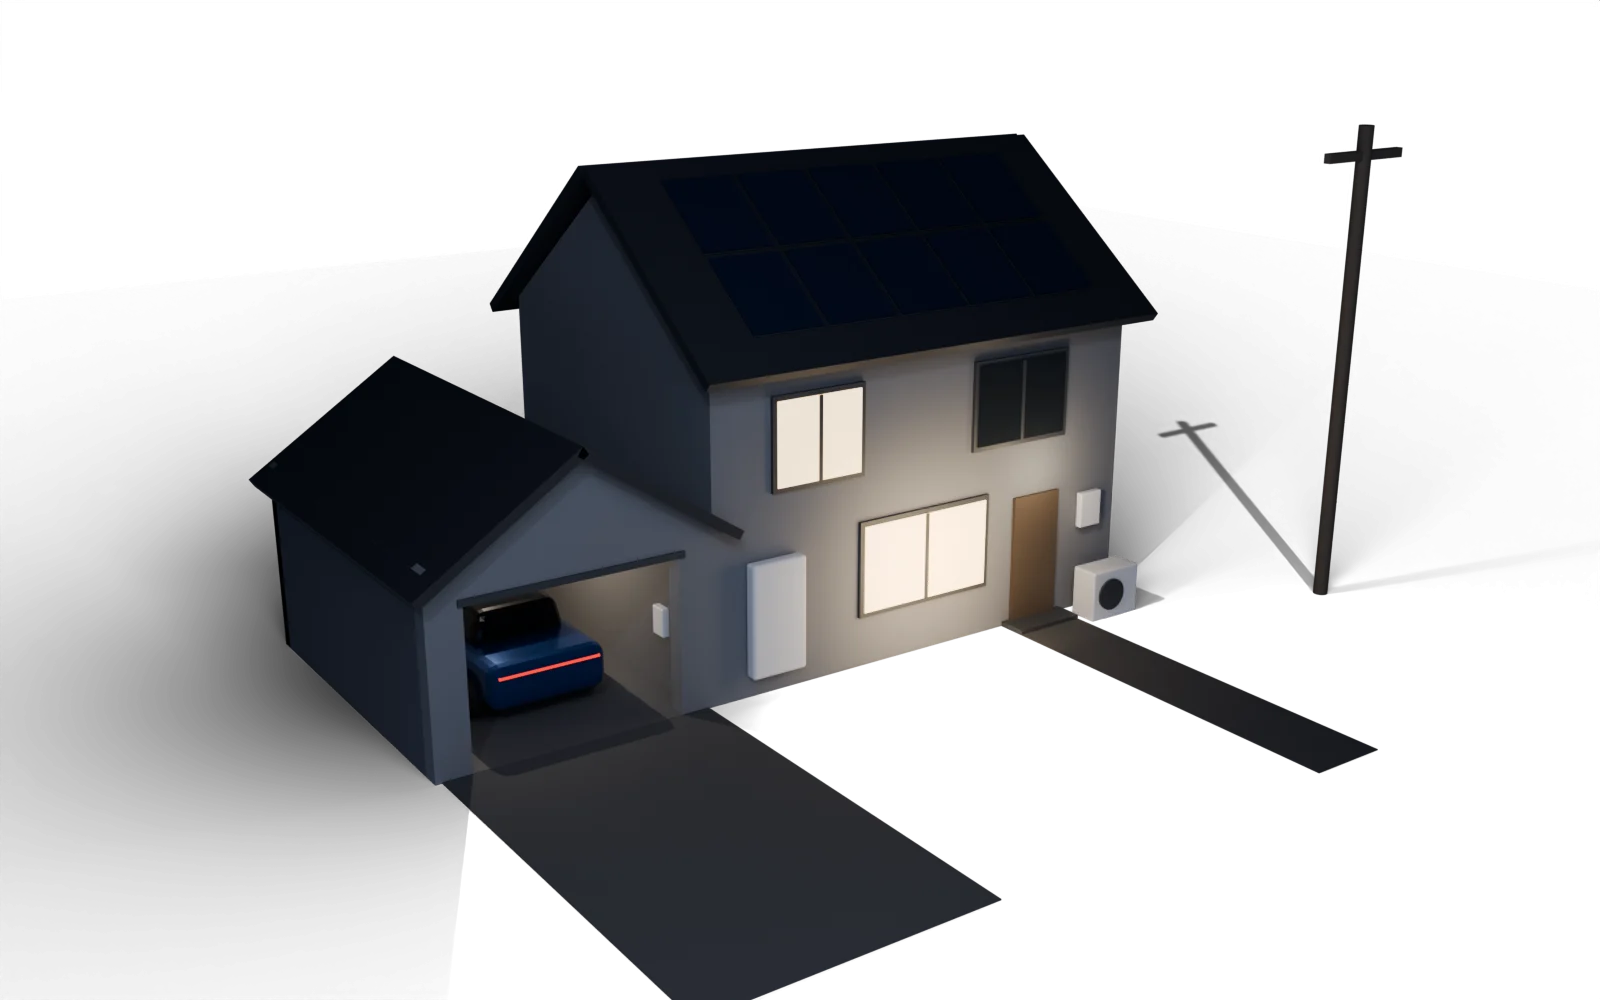
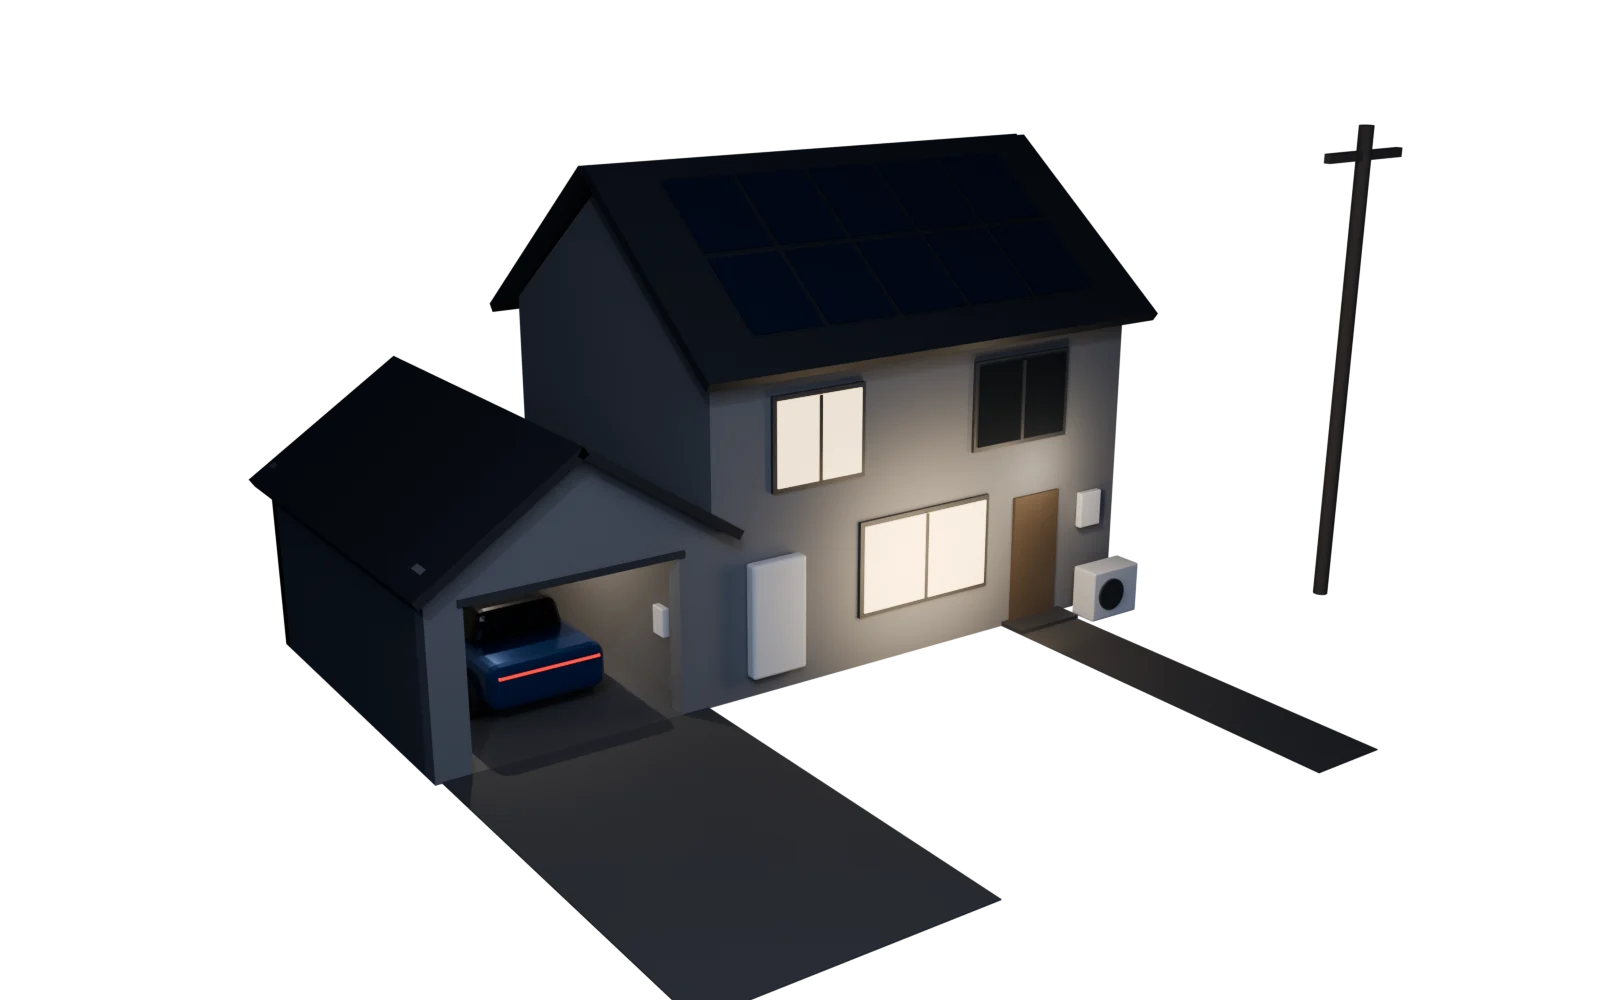
v3.84.1: house view labels beside their things, colour-coded, cropped and faded

diff --git a/gridlock_addon/rootfs/opt/gridlock-web/webui.py b/gridlock_addon/rootfs/opt/gridlock-web/webui.py
@@ -2195,7 +2195,7 @@ function renderFlow(f, bypassActive, house) {
   // breathes while it carries power, and a soft glowing pulse glides along
   // it the way the power goes, quicker the more power. Figures along the
   // top with thin leader lines down to their thing.
-  const IW = house.width, IH = house.height, TOPBAND = 120, VW = IW, VH = IH + TOPBAND;
+  const IW = house.width, IH = house.height, TOPBAND = 0, VW = IW, VH = IH + TOPBAND;
   const at = ([x, y]) => [x, y + TOPBAND];
   const num = (v) => Math.abs(Number(v) || 0);
   const kw = (v) => `${num(v).toFixed(1)} kW`;
@@ -2210,7 +2210,7 @@ function renderFlow(f, bypassActive, house) {
   };
   const col = {
     solar: '#f5b942', grid: bypassActive ? '#fb923c' : (f.exporting ? '#5ec8e5' : '#e8a33d'),
-    home: '#eef2f8', car: '#4ade80', heatpump: '#f87171', battery: '#4ade80',
+    home: '#c4b5fd', car: '#60a5fa', heatpump: '#f87171', battery: '#4ade80',
   };
   const kwOf = { solar: f.pv_kw, grid: f.grid_kw, home: f.home_kw, car: f.ev_kw, heatpump: f.heatpump_kw };
   // Towards the battery (true) or away from it.
@@ -2227,7 +2227,7 @@ function renderFlow(f, bypassActive, house) {
         stroke-dasharray="7 93" filter="url(#flowGlow)"><animate attributeName="stroke-dashoffset" values="${inward[k] ? '100;0' : '0;100'}" dur="${dur}s" begin="${delay}s" repeatCount="indefinite"/></path>`;
     return base + pulse(0) + (sh > 0.4 ? pulse(-(Number(dur) / 2).toFixed(2)) : '');
   }).join('');
-  const A = house.anchors || {};
+  const A = house.anchors || {}, L = house.labels || {};
   const items = [
     { k: 'grid', val: kw(f.grid_kw), cap: 'Grid', sub: f.exporting ? 'exporting' : f.importing ? 'importing' : '' },
     ...(f.has_heatpump ? [{ k: 'heatpump', val: kw(f.heatpump_kw), cap: 'Heat pump', sub: on.heatpump ? 'running' : 'off' }] : []),
@@ -2236,19 +2236,38 @@ function renderFlow(f, bypassActive, house) {
     { k: 'battery', val: socPct === null ? kw(f.battery_kw) : `${socPct}%`, cap: 'Battery',
       sub: f.battery_charging ? `charging ${kw(f.battery_kw)}` : f.battery_discharging ? `using ${kw(f.battery_kw)}` : 'idle' },
     { k: 'car', val: kw(f.ev_kw), cap: 'Car', sub: on.car ? (f.ev_protected ? 'charging, protected' : 'charging') : '' },
-  ].filter((it) => A[it.k]).map((it) => ({ ...it, a: at(A[it.k]) })).sort((p, q) => p.a[0] - q.a[0]);
-  const LABEL_Y = 54, LINE_TOP = 150, BEND = 190;
-  const labels = items.map((it, i) => {
-    const lx = (VW / items.length) * (i + 0.5), [ax, ay] = it.a, live = on[it.k];
-    return `<path d="M${lx.toFixed(1)},${LINE_TOP} L${ax.toFixed(1)},${BEND} L${ax.toFixed(1)},${(ay - 10).toFixed(1)}" fill="none" stroke="#8894a6" stroke-width="1.5" opacity=".45"/>
-      <circle cx="${ax.toFixed(1)}" cy="${(ay - 6).toFixed(1)}" r="5" fill="${live ? col[it.k] : '#7c8798'}"/>
-      <text x="${lx.toFixed(1)}" y="${LABEL_Y}" text-anchor="middle" font-size="40" font-weight="600" fill="${live ? '#f1f5f9' : '#9aa5b5'}" style="font-variant-numeric:tabular-nums">${it.val}</text>
-      <text x="${lx.toFixed(1)}" y="${LABEL_Y + 34}" text-anchor="middle" font-size="20" letter-spacing="3" fill="#8b95a5">${esc(it.cap.toUpperCase())}</text>
-      ${it.sub ? `<text x="${lx.toFixed(1)}" y="${LABEL_Y + 64}" text-anchor="middle" font-size="21" fill="${live ? col[it.k] : '#6b7686'}">${esc(it.sub)}</text>` : ''}`;
+  ].filter((it) => A[it.k] && L[it.k]);
+  // Each figure sits at its own spot beside its thing (from the render), a
+  // short straight line from the side of the text facing it.
+  const boxes = [];
+  const labels = items.map((it) => {
+    const [ax, ay] = at(A[it.k]), [lx, ly] = at(L[it.k]), live = on[it.k];
+    const above = ly < ay - 80, below = ly > ay + 80;
+    const anchor = above || below ? 'middle' : (lx < ax ? 'end' : 'start');
+    const top = ly - 36, bottom = ly + (it.sub ? 66 : 40);
+    const sx = above || below ? lx : lx + (lx < ax ? 16 : -16);
+    const sy = above ? bottom + 10 : below ? top - 12 : ly - 12;
+    const half = 130;
+    boxes.push([anchor === 'end' ? lx - 2 * half : anchor === 'start' ? lx : lx - half, top, anchor === 'end' ? lx : anchor === 'start' ? lx + 2 * half : lx + half, bottom]);
+    // One colour per thing: line, dot and name in it, bright when busy.
+    const c = col[it.k];
+    return `<path d="M${sx.toFixed(1)},${sy.toFixed(1)} L${ax.toFixed(1)},${ay.toFixed(1)}" fill="none" stroke="${c}" stroke-width="1.5" opacity="${live ? 0.7 : 0.3}"/>
+      <circle cx="${ax.toFixed(1)}" cy="${ay.toFixed(1)}" r="${live ? 6 : 5}" fill="${c}" opacity="${live ? 1 : 0.45}"/>
+      <text x="${lx.toFixed(1)}" y="${ly.toFixed(1)}" text-anchor="${anchor}" font-size="40" font-weight="600" fill="${live ? '#f1f5f9' : '#9aa5b5'}" style="font-variant-numeric:tabular-nums">${it.val}</text>
+      <text x="${lx.toFixed(1)}" y="${(ly + 32).toFixed(1)}" text-anchor="${anchor}" font-size="20" letter-spacing="3" fill="${c}" opacity="${live ? 0.95 : 0.55}">${esc(it.cap.toUpperCase())}</text>
+      ${it.sub ? `<text x="${lx.toFixed(1)}" y="${(ly + 60).toFixed(1)}" text-anchor="${anchor}" font-size="21" fill="${live ? c : '#6b7686'}">${esc(it.sub)}</text>` : ''}`;
   }).join('');
-  return `<div class="flow-wrap"><svg class="flow-svg" viewBox="0 0 ${VW} ${VH}" role="img" aria-label="Where the house's power is coming from and going to right now">
-    <defs><filter id="flowGlow" x="-50%" y="-50%" width="200%" height="200%"><feGaussianBlur stdDeviation="4" result="b"/><feMerge><feMergeNode in="b"/><feMergeNode in="SourceGraphic"/></feMerge></filter></defs>
-    <image href="assets/house.webp?v=${house.v}" x="0" y="${TOPBAND}" width="${IW}" height="${IH}"/>
+  // Crop to the house and its figures.
+  const bb = house.bbox || [0, 0, IW, IH];
+  const ext = [bb[0], bb[1] + TOPBAND, bb[2], bb[3] + TOPBAND];
+  for (const b of boxes) { ext[0] = Math.min(ext[0], b[0]); ext[1] = Math.min(ext[1], b[1]); ext[2] = Math.max(ext[2], b[2]); ext[3] = Math.max(ext[3], b[3]); }
+  const PAD = 24, vb = [ext[0] - PAD, ext[1] - PAD, ext[2] - ext[0] + 2 * PAD, ext[3] - ext[1] + 2 * PAD].map((v) => v.toFixed(0)).join(' ');
+  void VW; void VH;
+  return `<div class="flow-wrap"><svg class="flow-svg" viewBox="${vb}" role="img" aria-label="Where the house's power is coming from and going to right now">
+    <defs><filter id="flowGlow" x="-50%" y="-50%" width="200%" height="200%"><feGaussianBlur stdDeviation="4" result="b"/><feMerge><feMergeNode in="b"/><feMergeNode in="SourceGraphic"/></feMerge></filter>
+      <linearGradient id="houseFade" x1="0" y1="0" x2="0" y2="1"><stop offset="0.72" stop-color="#fff"/><stop offset="1" stop-color="#fff" stop-opacity="0"/></linearGradient>
+      <mask id="houseMask" maskUnits="userSpaceOnUse" x="0" y="${TOPBAND}" width="${IW}" height="${IH}"><rect x="0" y="${TOPBAND}" width="${IW}" height="${IH}" fill="url(#houseFade)"/></mask></defs>
+    <image href="assets/house.webp?v=${house.v}" x="0" y="${TOPBAND}" width="${IW}" height="${IH}" mask="url(#houseMask)"/>
     ${wireEls}${labels}
   </svg></div>${f.ev_protected ? '<div style="text-align:center;color:var(--violet);font-size:13px;margin-top:8px">EV/PV Bypass: battery locked while the car charges</div>' : ''}`;
 }

diff --git a/tools/house/render_house.py b/tools/house/render_house.py
@@ -206,9 +206,8 @@ for wx in (CX - 0.9, CX + 0.9):
 # ---- ground: driveway, path, and a shadow catcher ---------------------------
 box("driveway", GX0 + 0.1, GX1 - 0.1, -6.5, 0.0, 0.0, 0.015, M["drive"])
 box("path", 5.6, 6.85, -6.5, -0.5, 0.0, 0.012, M["drive"])
-bpy.ops.mesh.primitive_plane_add(size=80, location=(2, 0, 0))
-ground = bpy.context.object
-ground.is_shadow_catcher = True
+# No shadow catcher: on the dashboard's dark background its shadows read as
+# boxy dark patches. The dashboard fades the bottom of the picture instead.
 
 # ---- the grid pole ------------------------------------------------------------
 POLE = Vector((11.2, -2.0, 0))
@@ -299,13 +298,36 @@ anchors = {
     "home": (1.85, F, 4.55),
     "solar": tuple(on_front_slope(3.9, 0.55) + slope_n * 0.22),
     "battery": (1.02, -0.24, 2.15),
-    "car": (CX, 3.0, 1.56),
+    "car": (CX, CY0 + 0.35, 1.08),
+}
+# Where each figure goes: a point in the scene beside its thing, so a
+# re-render keeps them in place. Labels above, beside or below their thing.
+labels = {
+    "solar": (4.2, 3.0, RIDGE + 2.4),
+    "home": (-3.0, 3.0, RIDGE + 1.4),
+    "grid": (POLE.x, POLE.y, 9.8),
+    "car": (GX0 - 3.6, -1.2, 1.1),
+    "battery": (1.0, -4.6, 0.0),
+    "heatpump": (9.4, -3.6, 0.0),
 }
 data = {"width": W, "height": H,
         "wires": {k: [px(p) for p in pts] for k, pts in wires.items()},
-        "anchors": {k: px(p) for k, p in anchors.items()}}
-with open(os.path.join(OUT, "house.json"), "w") as f:
-    json.dump(data, f, indent=1)
+        "anchors": {k: px(p) for k, p in anchors.items()},
+        "labels": {k: px(p) for k, p in labels.items()}}
 
 bpy.ops.render.render(write_still=True)
 print("rendered", scene.render.filepath)
+
+# The picture's visible extent, so the dashboard can crop to it.
+img = bpy.data.images.load(scene.render.filepath)
+px_ = list(img.pixels)
+xs, ys = [], []
+for yy in range(0, H, 4):
+    row = (H - 1 - yy) * W * 4
+    for xx in range(0, W, 4):
+        if px_[row + xx * 4 + 3] > 0.04:
+            xs.append(xx)
+            ys.append(yy)
+data["bbox"] = [min(xs), min(ys), max(xs), max(ys)] if xs else [0, 0, W, H]
+with open(os.path.join(OUT, "house.json"), "w") as f:
+    json.dump(data, f, indent=1)

diff --git a/gridlock_addon/CHANGELOG.md b/gridlock_addon/CHANGELOG.md
@@ -1,5 +1,12 @@
 # Changelog
 
+## 3.84.1 - 2026-11-16
+
+### Overview
+- House view: each figure sits beside its own thing with a short line (solar above the roof, grid above the pole, car beside the garage, battery and heat pump in front), not all hanging from the top
+- Colour-coded: one colour per thing for its wire, pulses, line, dot and name (solar amber, grid orange importing / cyan exporting, battery green, car blue, heat pump red, home violet), bright when busy
+- Cropped to the house, bottom fades out; the shadow layer that showed as dark boxes removed; the car's dot is on the car
+
 ## 3.84.0 - 2026-11-16
 
 ### Overview
